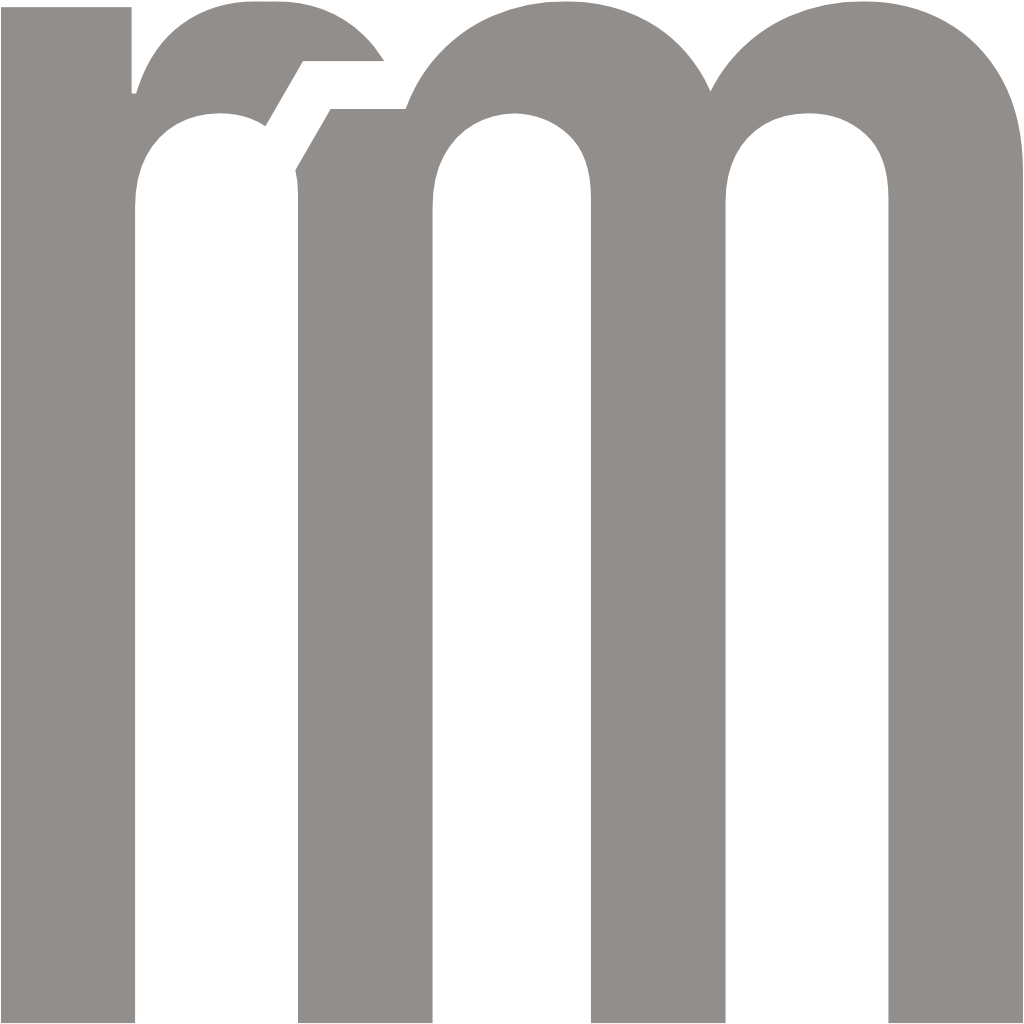
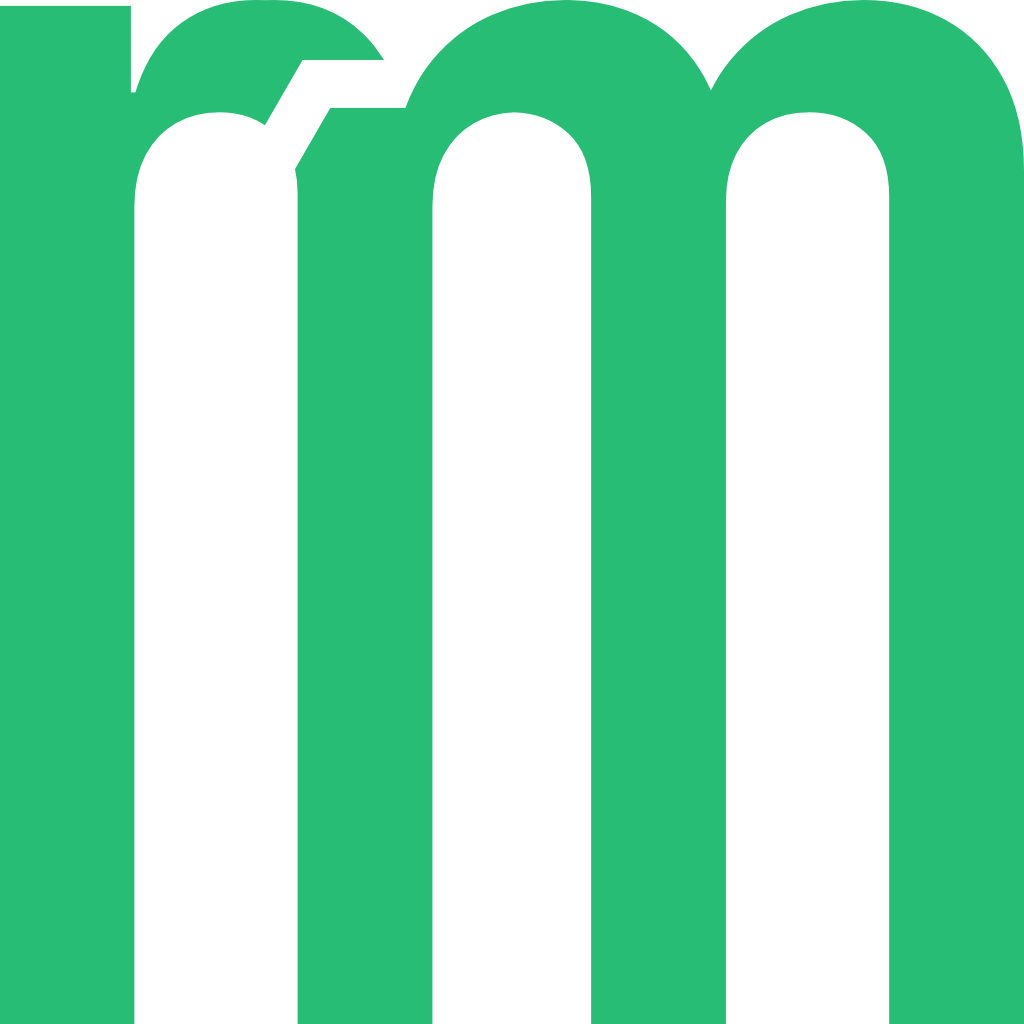
new color.

diff --git a/index.html b/index.html
@@ -1,9 +1,9 @@
 <html lang="en">
   <head>
 		<meta charset="UTF-8">
-  	<meta name="viewport" content="width=device-width, initial-scale=1.0">
+  		<meta name="viewport" content="width=device-width, initial-scale=1.0">
   	
-		<meta name="description" content="xerme">
+		<meta name="description" conten5t="xerme">
 		<title>xerme</title>
 		<meta name='robots' content='index,follow'>
 		<link rel='canonical' href='https://xerme.xyz'>
@@ -11,7 +11,7 @@
 		<meta name='og:title' content='xerme'>
 		<meta name='og:type' content='website'>
 		<meta name='og:url' content='https://xerme.xyz'>
-		<meta name='og:image' content='http://xerme.xyz/img/white.svg'>
+		<meta name='og:image' content='http://xerme.xyz/img/black.svg'>
 		<meta name='og:site_name' content='xerme'>
 		<meta name='og:description' content='A system.'>
 		<meta name='og:email' content='abc@xerme.xyz'>
@@ -22,8 +22,6 @@
 		<link rel="icon" type="image/png" sizes="16x16" href="/img/f/16.png">
 		<link rel="icon" type="image/png" sizes="32x32" href="/img/f/32.png">
 		<link rel="icon" type="image/png" sizes="48x48" href="/img/f/48.png">
-		<link rel="icon" type="image/png" sizes="96x96" href="/img/f/96.png"/>
-		<link rel="icon" type="image/png" sizes="192x192" href="/img/f/192.png"/>
 		<link rel="icon" type="image/png" sizes="256x256" href="/img/f/256.png"/>
 		<link rel="icon" type="image/png" sizes="512x512" href="/img/f/512.png"/>
 		<link rel="icon" type="image/png" sizes="1024x1024" href="/img/f/1024.png"/>
@@ -40,7 +38,7 @@
   </head>
   <body>
 	<mid class="x">
-		<img src="img/white.svg" class="logos"/>
+		<img src="img/green.svg" class="logos"/>
 	</mid>
 	<fut class="futs">
 		<a href="mailto:abc@xerme.xyz">
@@ -48,7 +46,7 @@
 		</a>
 <br>
 		<a href="https://xer.me/parkin">
-			source code
+		source code
 		</a>
 	</fut>
   </body>

diff --git a/css/styles.css b/css/styles.css
@@ -10,13 +10,13 @@ html {
   box-sizing: border-box;
   line-height: 1.15;
   scroll-behavior: smooth;
-  cursor: help;
+  cursor: crosshair;
 }
 
 
 body {
-  background-color: #918E8B;
-  color: #ffffff;
+  background-color: #1e1e1e;
+  color: #28BD75;
   font-family: 'Inter', sans-serif;
   font-weight: 600;
   margin: 0;
@@ -25,7 +25,7 @@ body {
 
 a:link, a:visited, a:hover, a:active {
   text-decoration: none;
-  color: #ffffff;
+  color: #28BD75;
 }
 
 .x {
@@ -38,6 +38,7 @@ a:link, a:visited, a:hover, a:active {
   top: 50%;
   left: 50%;
   transform:translate(-50%, -50%) ;
+  cursor: help;
 }
 
 .futs {
